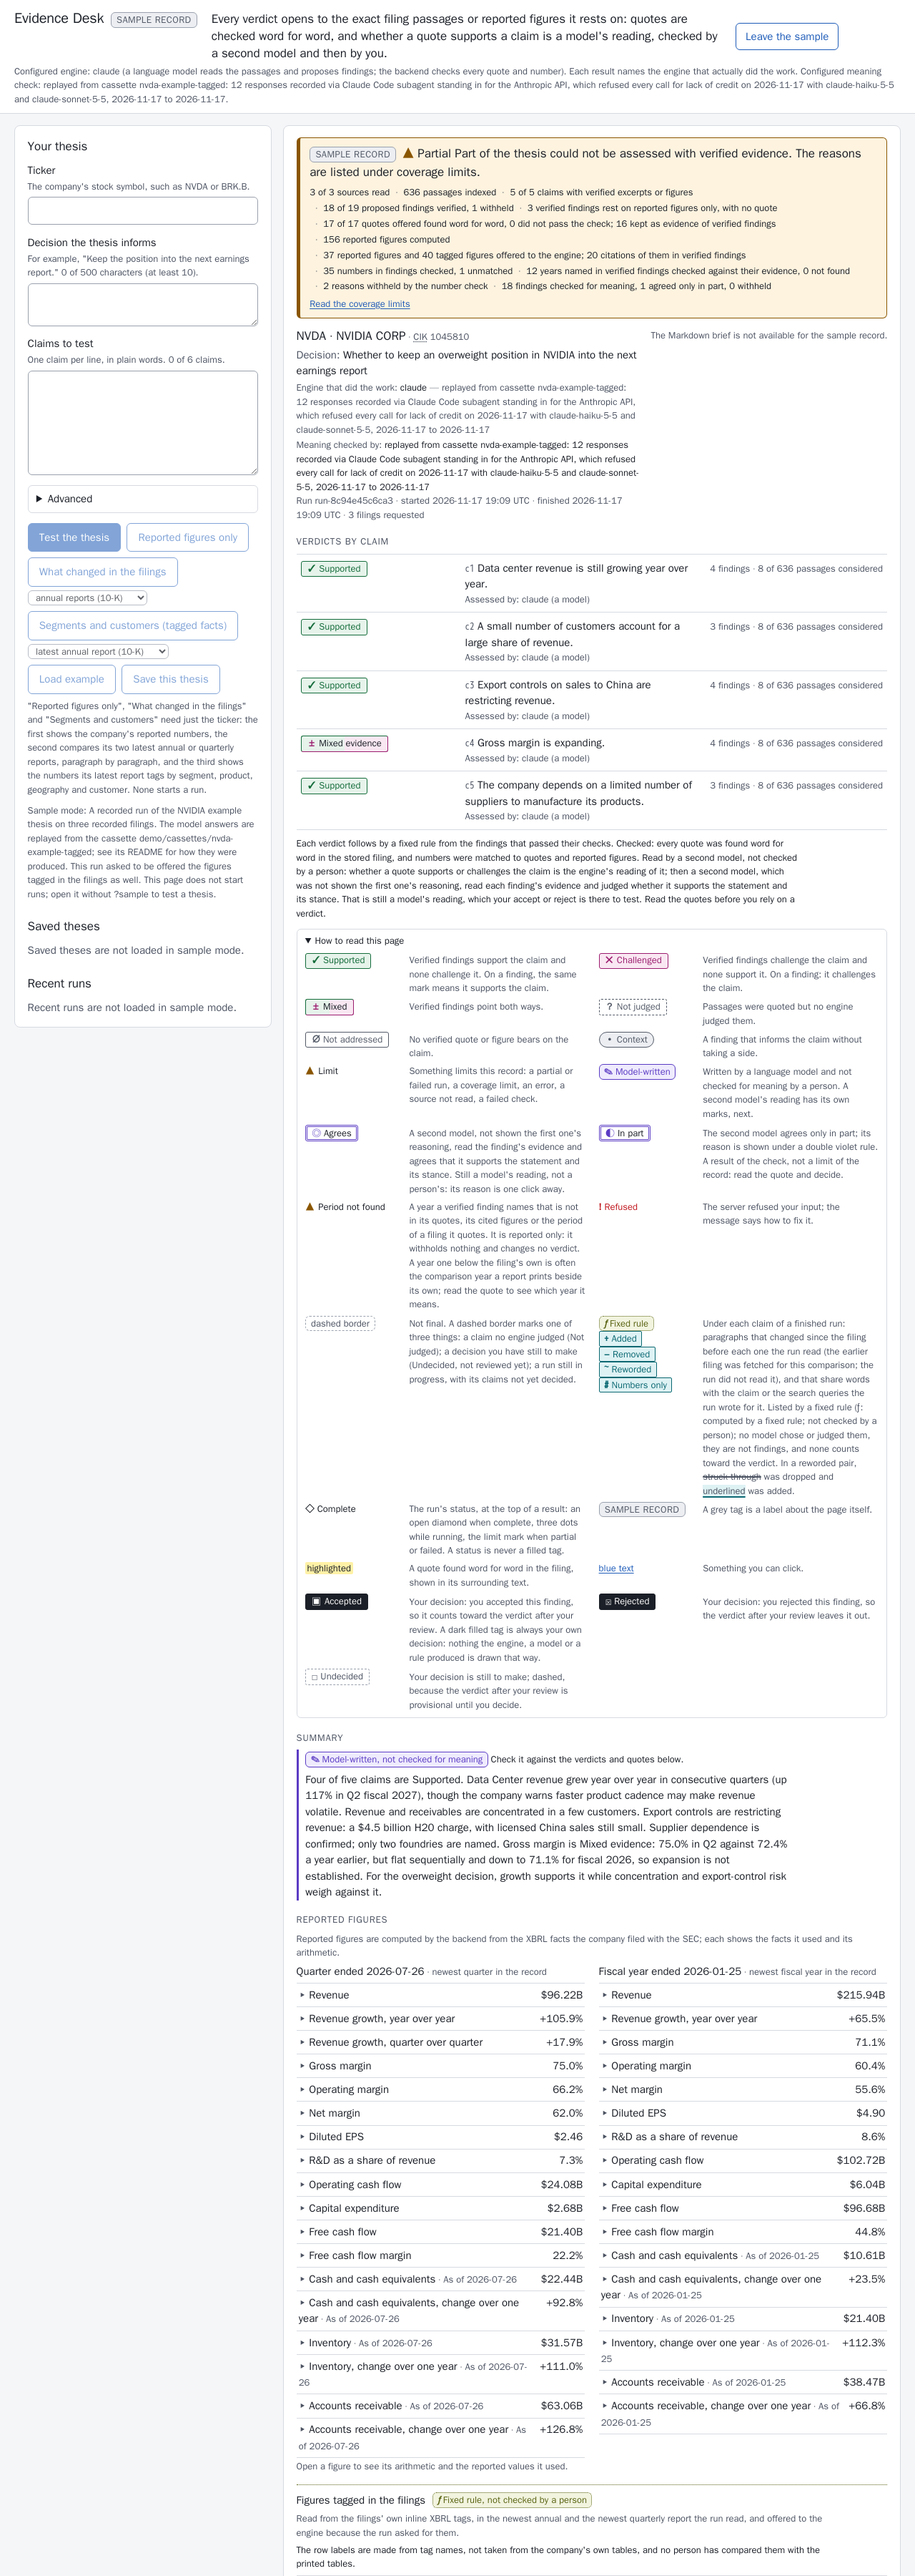
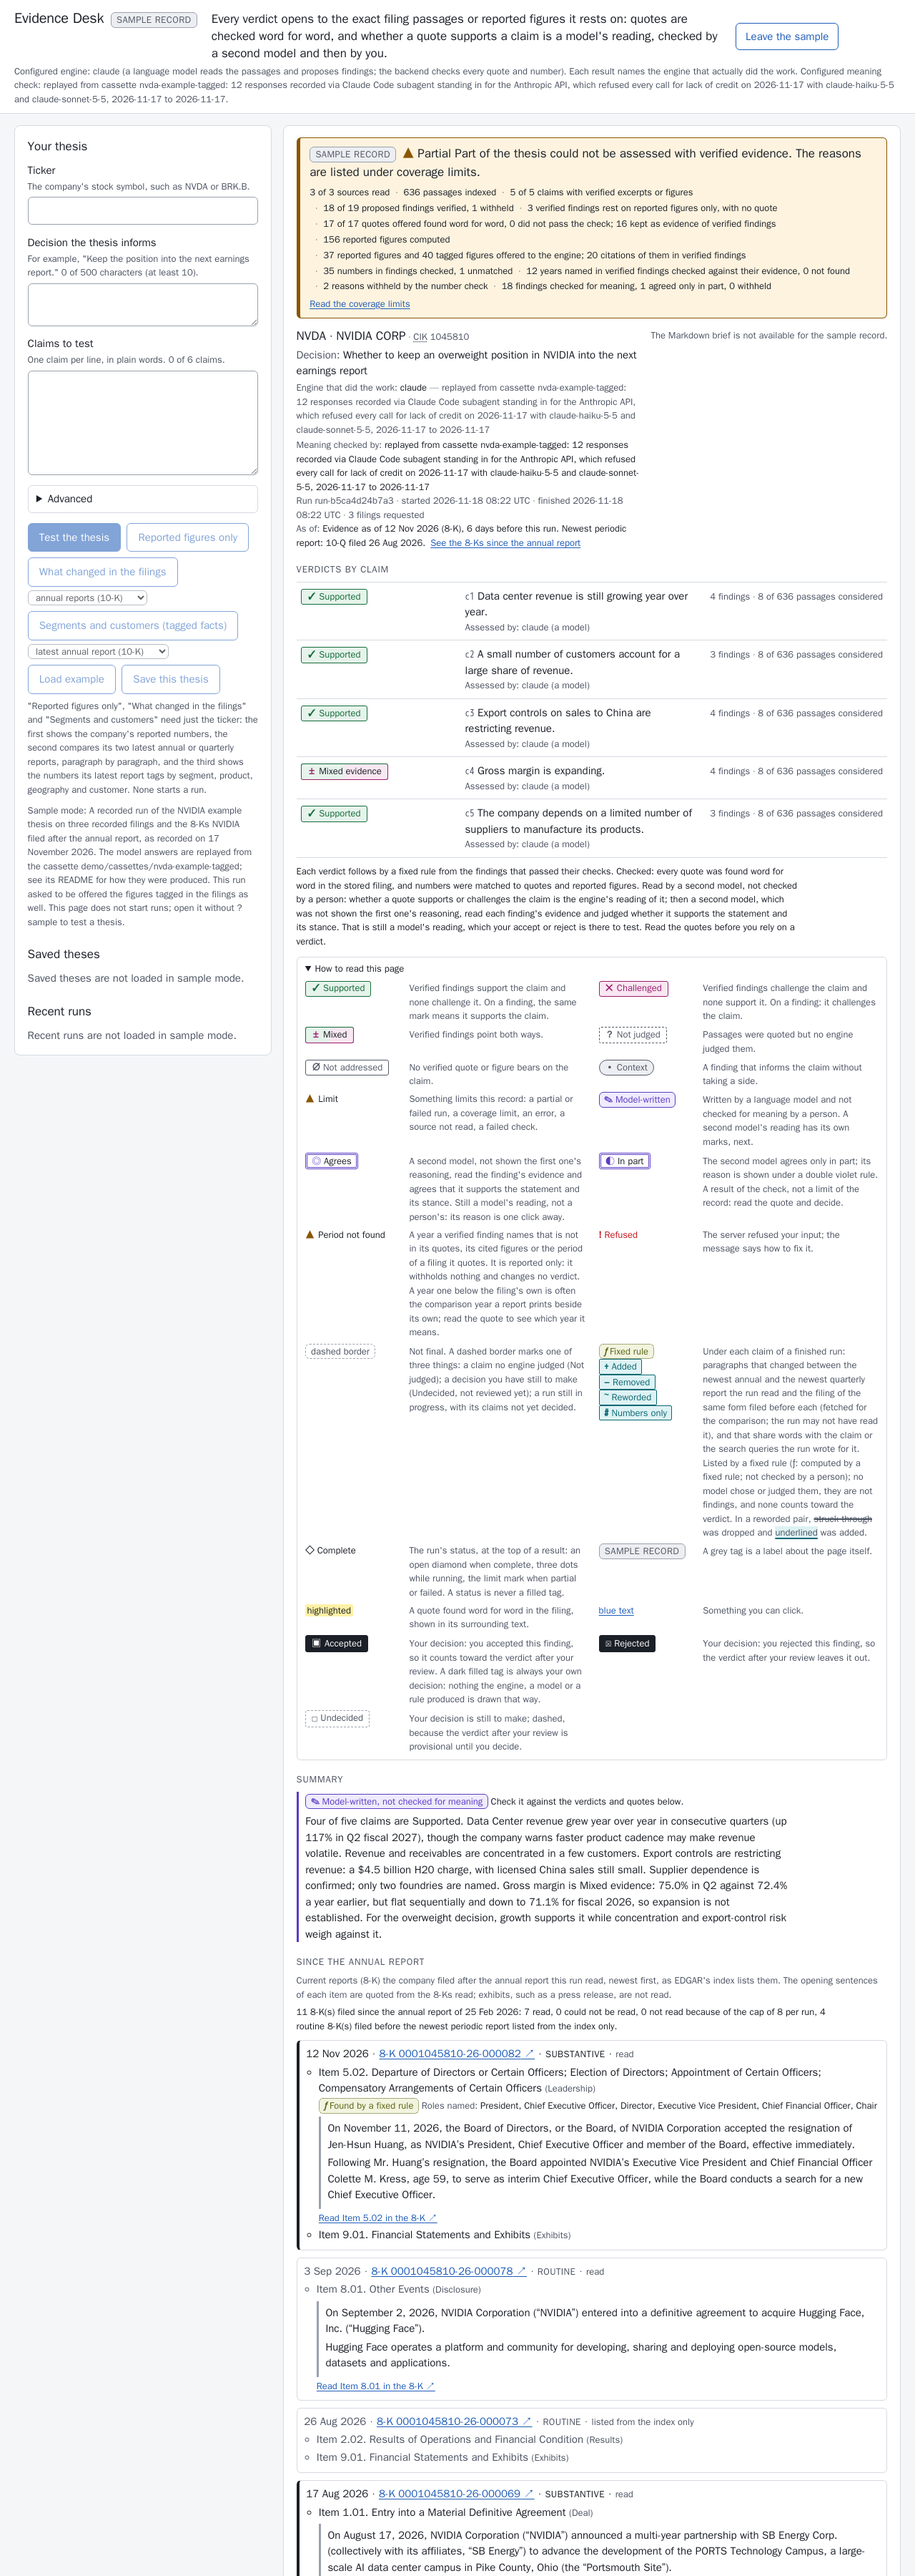
The page shows the as-of line, the 8-Ks since the annual report and the marks
Under the run's details, the record's as-of line with a way to a new
panel, "Since the annual report": the counts line, then each 8-K newest
first with its date, form, link, kind and status, each item with its SEC
title and category, the opening sentences quoted and linked to the filing,
and the roles a 5.02 names (marked as found by a fixed rule). Substantive
8-Ks carry a solid ink rule; routine ones stay plain. A claim shows its
caution (amber) or its 8-K note; a finding shows each 8-K that postdates
it, linking to that 8-K in the panel. The page computes none of it; a run
from before version 12 shows no panel. uitests/test_events_dom.py checks
both recorded samples' DOM against their JSON, and that the synthetic
record, which has no as-of block, shows neither. The samples are
regenerated (make replay --sample, make sample-run-changes) for the new
wording in /api/meta, and the screenshots (make screenshots).

diff --git a/Capstone/evidence_desk/src/web/app.js b/Capstone/evidence_desk/src/web/app.js
@@ -43,6 +43,8 @@ const STAGES = [
   ["queued", "Queued"],
   ["company", "Company"],
   ["filings", "Filings"],
+  ["events", "Current reports (8-K)"],
+  ["numbers", "Reported figures"],
   ["planning", "Planning"],
   ["retrieving", "Retrieving passages"],
   ["assessing", "Assessing"],
@@ -253,6 +255,9 @@ const els = {
   summary: $("summary"),
   figuresSection: $("figures-section"),
   figures: $("figures"),
+  eventsSection: $("events-section"),
+  eventsTitle: $("events-title"),
+  events: $("events"),
   claimList: $("claim-list"),
   runFilingChanges: $("run-filing-changes"),
   withheldSection: $("withheld-section"),
@@ -2236,6 +2241,7 @@ function renderRun(run) {
   renderDistinction(run);
   renderRunChanges(run);
   renderSummary(run);
+  renderEvents(run);
   renderRunFigures(run);
   renderClaims(run, ctx);
   renderClaimChanges(run);
@@ -2451,7 +2457,24 @@ function renderHead(run) {
   } else {
     download = h("a", { class: "download", href: briefHref(run.id, false), download: `evidence-desk-${run.id}.md`, text: "Download Markdown brief" });
   }
-  els.runHead.replaceChildren(h("div", { class: "run-head-main" }, title, decision, engineLine, checkerLine, details, thesisLine(run)), h("div", { class: "run-head-actions" }, download));
+  els.runHead.replaceChildren(h("div", { class: "run-head-main" }, title, decision, engineLine, checkerLine, details, asOfLine(run), thesisLine(run)), h("div", { class: "run-head-actions" }, download));
+}
+
+/**
+ * How old the evidence is, as the record's as-of block words it, with a way to the 8-Ks.
+ * Nothing for a run recorded before version 12, which has no as-of block.
+ */
+function asOfLine(run) {
+  const line = str(run.as_of?.line);
+  if (!line) return "";
+  return h(
+    "p",
+    { class: "as-of", "data-as-of": "" },
+    h("span", { class: "label", text: "As of: " }),
+    line,
+    " ",
+    h("a", { href: "#events-section", onclick: jumpTo("events-section"), text: "See the 8-Ks since the annual report" }),
+  );
 }
 
 /**
@@ -2582,6 +2605,12 @@ function renderClaims(run, ctx) {
     const note = verdictNote(claim.verdict);
     if (note) body.append(h("p", { class: "verdict-note" }, h("span", { class: "label", text: "Verdict rule: " }), note));
     if (assessedText(claim)) body.append(h("p", { class: "assessed-line", text: assessedText(claim) }));
+    if (str(claim.caution)) {
+      body.append(h("div", { class: "claim-caution", "data-claim-caution": claim.id }, limitLine("p", h("strong", { text: "Caution: " }), claim.caution)));
+    }
+    if (str(claim.event_note)) {
+      body.append(h("p", { class: "event-note", "data-claim-event-note": claim.id }, h("span", { class: "label", text: "8-Ks since the annual report: " }), claim.event_note));
+    }
     if (claim.rationale) {
       body.append(
         writtenField(
@@ -2866,6 +2895,7 @@ function renderFinding(finding, ctx, withheld = false) {
   );
   const counted = countedAsLine(finding);
   if (counted) article.append(counted);
+  for (const mark of list(finding.predated_by)) article.append(predatedLine(mark));
   if (withheld) {
     // A finding the second model rejected keeps that model's own words, tagged for the browser test.
     const reason = str(finding.withheld_reason) || "no quote was found in the filing text.";
@@ -2891,6 +2921,16 @@ function renderFinding(finding, ctx, withheld = false) {
     article.append(h("div", { class: "review-slot", "data-review-finding": finding.id, hidden: true }));
   }
   return article;
+}
+
+/** "Predates the 8-K of 12 Nov 2026, Item 5.02", the record's words, linking to that 8-K above. */
+function predatedLine(mark) {
+  const target = eventAnchor(str(mark.event_id));
+  const label = str(mark.label) || "Predates a later 8-K";
+  return limitLine(
+    "p",
+    h("span", { class: "predated", "data-predated-by": str(mark.event_id) }, target ? h("a", { href: `#${target}`, onclick: jumpTo(target), text: label }) : label),
+  );
 }
 
 /**
@@ -3169,6 +3209,91 @@ function renderSources(run) {
 }
 
 // ---------------------------------------------------------------- reported figures
+
+// ---------------------------------------------------------------- 8-Ks since the annual report
+
+const EVENT_ID = /^[A-Za-z0-9-]{1,80}$/;
+
+/** The element id of an 8-K in the panel; "" for an id from the record that could not be one. */
+function eventAnchor(eventId) {
+  return EVENT_ID.test(eventId) ? `event-${eventId}` : "";
+}
+
+/**
+ * The 8-Ks the record lists after the annual report the run read, newest first, as the record
+ * orders and words them: each with its date, form, link, kind and what became of it, then each
+ * item with its SEC title, its category and, for an 8-K read, its opening sentences and the
+ * roles a 5.02 names. Nothing for a run recorded before version 12.
+ */
+function renderEvents(run) {
+  const asOf = run.as_of;
+  els.eventsSection.hidden = !asOf;
+  if (!asOf) {
+    els.events.replaceChildren();
+    return;
+  }
+  const words = state.meta?.events ?? {};
+  els.eventsTitle.textContent = str(words.heading) || "Since the annual report";
+  const parts = [];
+  if (str(words.note)) parts.push(h("p", { class: "hint", text: words.note }));
+  const counts = str(asOf.counts?.line);
+  if (counts) {
+    parts.push(
+      str(asOf.index_error)
+        ? limitLine("p", h("span", { class: "event-counts", "data-event-counts": "", text: counts }))
+        : h("p", { class: "event-counts", "data-event-counts": "", text: counts }),
+    );
+  }
+  const events = list(run.timeline);
+  if (events.length) parts.push(h("ol", { class: "events" }, ...events.map((event) => renderEvent(event, words))));
+  els.events.replaceChildren(...parts);
+}
+
+function renderEvent(event, words) {
+  const substantive = event.substantive === true;
+  const kind = substantive ? "substantive" : "routine";
+  const kindLabel = str(words.kind_labels?.[kind]) || kind;
+  const status = str(event.status);
+  const statusLabel = str(words.status_labels?.[status]) || status;
+  const anchor = eventAnchor(str(event.id));
+  const head = h(
+    "p",
+    { class: "event-head" },
+    h("strong", { class: "event-date", text: str(event.filed_label) || str(event.filed_date) }),
+    " · ",
+    externalLink(event.url, `${str(event.form)} ${str(event.accession)}`),
+    " · ",
+    h("span", { class: `event-kind is-${kind}`, "data-event-kind": kind, text: kindLabel }),
+    " · ",
+    h("span", { class: "event-status", "data-event-status": status, text: statusLabel }),
+  );
+  const entry = h("li", { class: `event ev-${kind}`, id: anchor || null, tabindex: anchor ? "-1" : null, "data-event-id": str(event.id) }, head);
+  if (str(event.reason)) entry.append(limitLine("p", h("span", { "data-event-reason": "", text: event.reason })));
+  const items = h("ul", { class: "event-items" });
+  for (const item of list(event.items)) {
+    const number = str(item.number);
+    const category = str(item.category);
+    const row = h(
+      "li",
+      { class: "event-item", "data-item": number },
+      h("span", { class: "event-item-title", text: `Item ${number}. ${str(item.title)}` }),
+      " ",
+      h("span", { class: "event-category", "data-category": category, text: str(words.category_labels?.[category]) || category }),
+    );
+    const roles = list(item.roles);
+    if (roles.length) {
+      row.append(h("p", { class: "event-roles", "data-event-roles": "" }, ruleMark("Found by a fixed rule"), " ", h("span", { class: "label", text: "Roles named: " }), roles.join(", ")));
+    }
+    const opening = list(item.opening);
+    if (opening.length) {
+      row.append(h("blockquote", { class: "event-opening", "data-event-opening": number }, ...opening.map((sentence) => h("p", { text: sentence }))));
+      row.append(h("p", { class: "event-link" }, externalLink(event.url, `Read Item ${number} in the ${str(event.form)}`)));
+    }
+    items.append(row);
+  }
+  entry.append(items);
+  return entry;
+}
 
 function renderRunFigures(run) {
   const metrics = list(run.metrics);

diff --git a/Capstone/evidence_desk/src/web/styles.css b/Capstone/evidence_desk/src/web/styles.css
@@ -1153,3 +1153,36 @@ p.bd-adds-yes, dt .bd-adds-yes { font-weight: 650; color: var(--ink); }
 .period-caution-title { font-weight: 500; }
 .period-unplaced { margin: 0.1rem 0 0; padding-left: 1.4rem; }
 .period-unplaced > li { display: list-item; }
+
+/* ------------------------------------------------------------ 8-Ks since the annual report (milestone 12)
+ * A substantive 8-K (an item of a category a claim can bear on) carries a solid ink rule and a
+ * bold tag; a routine one (results, exhibits, governance, disclosure) stays plain and muted.
+ * Neither is a verdict, limit, model, rule or change mark. Opening sentences are quoted as
+ * excerpts are. A finding that an 8-K postdates, and a claim's caution, use the amber ▲. */
+.as-of { margin: 0.3rem 0 0; font-size: var(--step--1); overflow-wrap: anywhere; }
+.as-of a { margin-left: 0.2rem; }
+.event-counts { margin: 0 0 0.6rem; font-size: var(--step--1); max-width: 95ch; }
+.events { list-style: none; margin: 0; padding: 0; display: grid; gap: 0.6rem; }
+.event { padding: 0.45rem 0.6rem; border: 1px solid var(--line); border-radius: var(--radius); background: var(--surface); }
+.event.ev-substantive { border-left: 4px solid var(--ink); }
+.event.ev-routine { color: var(--ink-2); }
+.event:focus { outline: 2px solid var(--accent); outline-offset: 2px; }
+.event-head { margin: 0 0 0.2rem; display: flex; flex-wrap: wrap; align-items: baseline; gap: 0 0.35rem; overflow-wrap: anywhere; }
+.event-kind { font-size: var(--step--1); text-transform: uppercase; letter-spacing: 0.03em; }
+.event-kind.is-substantive { font-weight: 700; color: var(--ink); }
+.event-status { font-size: var(--step--1); color: var(--ink-2); }
+.event-items { margin: 0.2rem 0 0; padding-left: 1.1rem; }
+.event-item { margin: 0.15rem 0; }
+.event-item-title { font-weight: 600; }
+.ev-routine .event-item-title { font-weight: 400; }
+.event-category { font-size: var(--step--1); color: var(--ink-2); }
+.event-category::before { content: "("; }
+.event-category::after { content: ")"; }
+.event-roles { margin: 0.15rem 0; font-size: var(--step--1); }
+.event-opening { margin: 0.3rem 0 0.2rem; padding: 0.3rem 0.6rem; border-left: 3px solid var(--line-strong); font-family: var(--font-quote); color: var(--ink); }
+.event-opening p { margin: 0 0 0.2rem; }
+.event-link { margin: 0; font-size: var(--step--1); }
+.claim-caution { margin: 0.3rem 0; padding: 0.2rem 0 0.2rem 0.55rem; border-left: 2px solid var(--limit); }
+.claim-caution p { margin: 0; }
+.event-note { margin: 0.3rem 0; font-size: var(--step--1); max-width: 95ch; }
+.predated { font-size: var(--step--1); }

diff --git a/Capstone/evidence_desk/src/web/index.html b/Capstone/evidence_desk/src/web/index.html
@@ -271,6 +271,11 @@
           </div>
         </section>
 
+        <section id="events-section" class="block" aria-labelledby="events-title" tabindex="-1" hidden>
+          <h3 id="events-title" class="block-title">Since the annual report</h3>
+          <div id="events"></div>
+        </section>
+
         <section id="figures-section" class="block" aria-labelledby="figures-title" hidden>
           <h3 id="figures-title" class="block-title">Reported figures</h3>
           <div id="figures"></div>

diff --git a/Capstone/evidence_desk/uitests/test_events_dom.py b/Capstone/evidence_desk/uitests/test_events_dom.py
@@ -1,0 +1,140 @@
+"""Browser-level checks of the 8-Ks since the annual report and the as-of line (version 12).
+
+`make uitest` renders the recorded sample runs (/?sample, /?sample=run-tagged), whose replayed
+EDGAR lists NVIDIA's 8-Ks filed after its 10-K, and the synthetic sample, a record without an
+as-of block, as a run from before version 12 has. These tests compare each dump with its
+JSON: the as-of line, the counts line, and every 8-K in the record's order with its date,
+form, link, kind, status, items, categories, opening sentences and roles. The page computes
+none of these; each is a record field or wording from /api/meta.
+"""
+
+from __future__ import annotations
+
+import json
+from functools import cache
+from pathlib import Path
+from typing import Any
+
+import pytest
+from bs4 import BeautifulSoup, Tag
+from test_dom import require_fresh
+
+ROOT = Path(__file__).resolve().parents[1]
+WEB = ROOT / "src" / "web"
+RESULTS = ROOT / "results"
+RUNS = {
+    "run": ("sample-run.json", "dom-sample.html"),
+    "run-tagged": ("sample-run-tagged.json", "dom-run-tagged.html"),
+}
+both = pytest.mark.parametrize("name", sorted(RUNS))
+
+
+@cache
+def sample(name: str) -> dict[str, Any]:
+    return json.loads((WEB / RUNS[name][0]).read_text(encoding="utf-8"))
+
+
+@cache
+def page(name: str) -> BeautifulSoup:
+    dump = RESULTS / RUNS[name][1]
+    require_fresh(dump, WEB / RUNS[name][0])
+    soup = BeautifulSoup(dump.read_text(encoding="utf-8"), "html.parser")
+    if soup.select_one("#run-view") is None or soup.select_one("#run-view[hidden]") is not None:
+        pytest.fail(f"{dump.name}: the page did not render the run")
+    return soup
+
+
+def words(node: Tag) -> str:
+    return " ".join(node.get_text().split())
+
+
+@both
+def test_the_record_has_a_timeline_to_show(name: str) -> None:
+    run = sample(name)["run"]
+    assert run["as_of"] is not None and len(run["timeline"]) >= 1
+
+
+@both
+def test_the_as_of_line_is_the_records(name: str) -> None:
+    line = page(name).select_one("#run-head [data-as-of]")
+    assert line is not None
+    assert sample(name)["run"]["as_of"]["line"] in words(line)
+    assert line.select_one('a[href="#events-section"]') is not None
+
+
+@both
+def test_the_panel_has_metas_heading_and_note_and_the_records_counts(name: str) -> None:
+    soup, record = page(name), sample(name)
+    section = soup.select_one("#events-section")
+    assert section is not None and not section.has_attr("hidden")
+    assert words(section.select_one("#events-title")) == record["meta"]["events"]["heading"]
+    assert record["meta"]["events"]["note"] in words(section)
+    counts = section.select_one("[data-event-counts]")
+    assert counts is not None and words(counts) == record["run"]["as_of"]["counts"]["line"]
+
+
+@both
+def test_every_8k_is_shown_in_the_records_order_with_its_fields(name: str) -> None:
+    soup, record = page(name), sample(name)
+    labels = record["meta"]["events"]
+    shown = soup.select("#events-section li.event")
+    timeline = record["run"]["timeline"]
+    assert [node["data-event-id"] for node in shown] == [event["id"] for event in timeline]
+    for node, event in zip(shown, timeline, strict=True):
+        assert node.get("id") == f"event-{event['id']}"
+        kind = "substantive" if event["substantive"] else "routine"
+        assert f"ev-{kind}" in node["class"]
+        assert words(node.select_one("[data-event-kind]")) == labels["kind_labels"][kind]
+        assert words(node.select_one("[data-event-status]")) == labels["status_labels"][event["status"]]
+        head = words(node.select_one(".event-head"))
+        assert event["filed_label"] in head and event["accession"] in head
+        assert node.select_one(".event-head a")["href"] == event["url"]
+        rows = node.select("li.event-item")
+        assert [row["data-item"] for row in rows] == [item["number"] for item in event["items"]]
+        for row, item in zip(rows, event["items"], strict=True):
+            assert f"Item {item['number']}. {item['title']}" in words(row)
+            category = row.select_one("[data-category]")
+            assert words(category) == labels["category_labels"][item["category"]]
+            quote = row.select_one("blockquote.event-opening")
+            if item["opening"]:
+                assert [words(p) for p in quote.select("p")] == [
+                    " ".join(s.split()) for s in item["opening"]
+                ]
+                assert row.select_one(".event-link a")["href"] == event["url"]
+            else:
+                assert quote is None
+            roles = row.select_one("[data-event-roles]")
+            if item["roles"]:
+                assert words(roles).endswith("Roles named: " + ", ".join(item["roles"]))
+            else:
+                assert roles is None
+
+
+def test_the_resignation_is_shown_substantive_with_its_opening_sentence() -> None:
+    node = page("run").select_one('li.event[data-event-id="ev-0001045810-26-000082"]')
+    assert node is not None and "ev-substantive" in node["class"]
+    assert "accepted the resignation of Jen-Hsun Huang" in words(node)
+
+
+@both
+def test_no_claim_or_finding_shows_an_8k_mark_the_record_does_not_carry(name: str) -> None:
+    soup, run = page(name), sample(name)["run"]
+    cautions = {c["id"] for c in run["claims"] if c["caution"]}
+    notes = {c["id"] for c in run["claims"] if c["event_note"]}
+    marks = {(f["id"], m["event_id"]) for f in run["findings"] for m in f["predated_by"]}
+    assert {n["data-claim-caution"] for n in soup.select("[data-claim-caution]")} == cautions
+    assert {n["data-claim-event-note"] for n in soup.select("[data-claim-event-note]")} == notes
+    shown = {
+        (n.find_parent("article")["data-finding-id"], n["data-predated-by"])
+        for n in soup.select("#claim-list [data-predated-by]")
+    }
+    assert shown == marks
+
+
+def test_a_record_without_an_as_of_block_shows_no_panel_and_no_line() -> None:
+    dump = RESULTS / "dom-synthetic.html"
+    require_fresh(dump, WEB / "sample-synthetic.json")
+    soup = BeautifulSoup(dump.read_text(encoding="utf-8"), "html.parser")
+    assert json.loads((WEB / "sample-synthetic.json").read_text())["run"].get("as_of") is None
+    assert soup.select_one("#events-section").has_attr("hidden")
+    assert soup.select_one("[data-as-of]") is None
